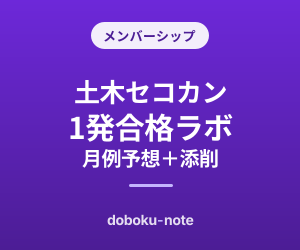
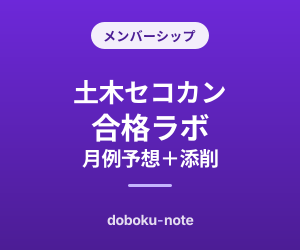
chore(note): メンバーシップ名を「土木セコカン合格ラボ」へ改名（1発を外す）
土木セコカン 1発合格ラボ → 土木セコカン合格ラボ。SKUタイトル/サイドバーバナー
（再生成）/戦略docs/メンバーシップ説明文/note記事CTA/エージェント/台帳を横断更新
（18ファイル26箇所・_archiveは歴史記録として除外）。type-check緑。

note実機のメンバーシップ本体名の変更は別対応（管理画面・未ローンチのため低リスク）。
既存のbare-url違反(改名無関係)のためSKIP_NOTE_UTM=1でバーンダウン回避。

diff --git a/src/lib/note-magazines.ts b/src/lib/note-magazines.ts
@@ -502,7 +502,7 @@ const MAGAZINES_RAW = {
     badge: 'note 限定',
   },
 
-  // ----- 1級・2級土木 メンバーシップ「土木セコカン 1発合格ラボ」(2026-06-23 配線) -----
+  // ----- 1級・2級土木 メンバーシップ「土木セコカン合格ラボ」(2026-06-23 配線) -----
   // 原稿配置: docs/note/1級・2級土木/メンバーシップ/（予想問題マガジン・学科記述予想・添削事例）
   // 非重複二刀流の会員側（フロー＝予想問題＋個別＝経験記述添削）。過去問・完成答案は会員に入れない
   // （買い切りマガジンの領分＝非重複の一線。noteコンテンツ計画.md §2.3 / Red Line #10）。
@@ -513,10 +513,10 @@ const MAGAZINES_RAW = {
     id: 'civil-membership-lab',
     published: false,
     noteUrl: '',
-    title: '土木セコカン 1発合格ラボ｜月例予想＋経験記述添削メンバーシップ',
+    title: '土木セコカン合格ラボ｜月例予想＋経験記述添削メンバーシップ',
     description:
       '1級・2級土木施工管理技士の合格伴走メンバーシップ。月例の予想問題（学科記述・経験記述のテーマ予想）で手を動かし、受験シーズンは施工経験記述をマンツーマン添削（NG→OK赤入れ＋採点者視点）で合格水準まで引き上げます。通年プラン（月例予想配信）と添削つきプラン（受験シーズン・定員制）の2プラン。最短ルートで一発合格を目指す人向けの伴走ラボです。過去問の完成答案は買い切りマガジンで別途販売しています。※本会員は合格を保証するものではありません。',
-    shortTitle: '土木セコカン 1発合格ラボ（会員）',
+    shortTitle: '土木セコカン合格ラボ（会員）',
     shortDescription:
       '月例の予想問題＋経験記述マンツーマン添削で合格まで伴走。通年／添削つきの2プラン。',
     imageUrl: '/images/magazines/civil-membership-lab-cover.webp',

diff --git a/docs/reference/agents-registry.md b/docs/reference/agents-registry.md
@@ -119,7 +119,7 @@ title: サブエージェント詳細レジストリ
 | `doc-curator`                  | doc の**ライフサイクル**（肥大化・完了・重複）を監査し候補 doc を `KEEP/TRIM/ARCHIVE/DELETE/CONSOLIDATE + 根拠引用 + confidence + 後追い` で分類。**親が渡した外部実体の検証済みシグナル（PR merged・published:true・ファイル実在・参照の有無）に基づき判定し、doc の自己申告で done と決めない**。検出専用＝退避/削除/参照更新/memory 同期はしない。Bash 不可。`doc-sync-auditor`（コード diff 起点の prose 陳腐化）とは守備範囲が直交 | Evaluator    | sonnet  | `.claude/skills/dev/doc-declutter/SKILL.md` 参照、機械 surfacer `scripts/check-doc-lifecycle.mjs` | ✅ 運用中（2026-06-17 起動） |
 | `sales-recorder`               | note 販売履歴テキストを正規化して sales-log.json に追記。productId 推定・重複チェック・月次集計を行う。購入者名は記録しない（プライバシー保護） | Generator    | sonnet  | `/record-sales` 連携、`docs/reference/sales-tracking.md` 参照 | ✅ 運用中（2026-06-17 起動） |
 | `note-operator`                | note.com への高レベル操作指示（価格変更・マガジン新設・記事収録など）を受け取り、既存スクリプト群を組み合わせて実行するオーケストレーター。dry-run 必須・account ゲート・変更後検証・SoT 更新を統括 | Orchestrator | sonnet  | 親が起動、`docs/reference/note-api-verification.md` 参照 | ✅ 運用中（2026-06-17 起動） |
-| `note-membership-operator`     | note メンバーシップ「土木セコカン 1発合格ラボ」（1級・2級土木）専用オーケストレーター。会員特典記事の配信（note-publish で公開→note-magazine-add-articles で特典マガジン収録＝会員へ自動配信）・記事/プラン設定編集（プラン会費/定員/説明の**保存**は note-membership-plan-edit＝非公開のまま可逆・dry-run既定／**「プランの公開」は不可逆ゆえ守備外＝運営者手動**）・公開後 SoT 反映（civil-membership-lab + もくじ URL）。収益アカウント安全弁（account ゲート/draft既定/dry-run）内蔵。ローカル実行限定。買い切り汎用の note-operator とは守備範囲が直交 | Orchestrator | sonnet  | 親が起動 / `/note-membership`、`docs/note/1級・2級土木/noteコンテンツ計画.md`・`メンバーシップ/README.md`・`note-api-verification.md` 参照 | ✅ 運用中（2026-06-23 起動） |
+| `note-membership-operator`     | note メンバーシップ「土木セコカン合格ラボ」（1級・2級土木）専用オーケストレーター。会員特典記事の配信（note-publish で公開→note-magazine-add-articles で特典マガジン収録＝会員へ自動配信）・記事/プラン設定編集（プラン会費/定員/説明の**保存**は note-membership-plan-edit＝非公開のまま可逆・dry-run既定／**「プランの公開」は不可逆ゆえ守備外＝運営者手動**）・公開後 SoT 反映（civil-membership-lab + もくじ URL）。収益アカウント安全弁（account ゲート/draft既定/dry-run）内蔵。ローカル実行限定。買い切り汎用の note-operator とは守備範囲が直交 | Orchestrator | sonnet  | 親が起動 / `/note-membership`、`docs/note/1級・2級土木/noteコンテンツ計画.md`・`メンバーシップ/README.md`・`note-api-verification.md` 参照 | ✅ 運用中（2026-06-23 起動） |
 | `sns-archive-auditor`          | `docs/sns` のバイナリ（reels wav/mp4 等）退避の前段監査。各パックを **OFFLOAD/ARCHIVE_KEEP/KEEP_LOCAL/BLOCK** に分類（**SoT＝slide-data.json/script/caption が無傷で再生成可能か**＋投稿済み/制作中で判定）。「迷ったら KEEP/BLOCK」でローカル削除の不可逆性を構造で防ぐ。audit-only・Bash 不可（親が dry-run/R2 検証/git 状態を渡す）。実行は `npm run upload-sns-r2`（`--purge-local` は R2 バイト一致検証後のみ削除） | Evaluator    | sonnet  | `upload-sns-r2` 連携、`docs/reference/sns-archive-policy.md` 参照 | ✅ 運用中（2026-06-18 起動） |
 | `past-exam-qa`                 | 過去問記事（primary/secondary・総監＋1級2級土木）の既存 MDX 品質を5軸監査（構造統一・正答正確性/全選択肢正誤検証・ExamPoint 折衷案準拠〔引っかけ1行＋items最大2〕・RelatedKeywords健全性・モバイル/文体）。content-qa（変換忠実性）/civil-exam-figure-auditor（図）/cem-qa（キーワード）と守備範囲が直交。audit-only・Bash不可（親が lint/validate/slug実在を渡す） | Evaluator | sonnet | 親が起動（過去問品質サイクル）、`past-exam-rewriter` と対 | ✅ 運用中（2026-06-18 起動） |
 | `past-exam-rewriter`           | `past-exam-qa` の指摘を過去問 MDX に外科的適用する校正 Generator（総監＋土木の primary/secondary）。ExamPoint 折衷案圧縮（lint 9-11 準拠）・ドリフト見出し「各選択肢の検証：」撤去・RelatedKeywords 接頭辞/slug 修正・正誤理由補完・文体統一。設問文/正答/KaTeX は保持、正答修正は QA が誤りと明示時のみ慎重に。Edit で外科編集（whole-file Write 禁止＝CRLF事故）。civil の図/二次解答補完/一次の大量壊れExamPoint復元は civil 専用 Generator（figure-extractor/secondary-exam-writer/exampoint-restorer）に委譲 | Generator | sonnet | 親が起動（過去問品質サイクル）、`past-exam-qa` と対 | ✅ 運用中（2026-06-18 起動） |

diff --git a/docs/note/1級・2級土木/noteコンテンツ計画.md b/docs/note/1級・2級土木/noteコンテンツ計画.md
@@ -1,7 +1,7 @@
 # note コンテンツ計画 — 1級・2級土木（横断）
 
 **作成日**: 2026-06-11 / **SSOT 統合**: 2026-06-11 / **メンバーシップ 2 層化**: 2026-06-12 / **非重複二刀流**: 2026-06-12 / **ライブラリ内包メンバーシップへ転換**: 2026-07-01（完成答案を会員ライブラリに内包・買い切り¥9,800パックはアンカー化・実収益は3ヶ月メンバーシップ）
-**位置づけ**: 1級・2級土木施工管理技士の note 戦略の**統合 SSOT**。1級・2級土木の note 有料商品は、**完成答案ライブラリ＋フロー（予想・添削・伴走）を内包するメンバーシップ「土木セコカン 1発合格ラボ」を旗艦**とし、**買い切りマガジン（完全攻略パック ¥9,800 等）はアンカー兼サブスク拒否層の受け皿として購入可能なまま残す**ハイブリッドで展開する。鍵となる洞察＝完成答案は1人あたり所有価値が薄く（104工種中1〜2本しか要らない）原価もほぼゼロのため、「所有バンドル」より「会員が自分の工種を探す検索ライブラリ」として価値が高い。無料集客記事クラスターは下表のサブ文書へ委譲する。競合分析（[09_note競合分析2026.md](../../project/01_戦略/09_note競合分析2026.md)）に基づく。
+**位置づけ**: 1級・2級土木施工管理技士の note 戦略の**統合 SSOT**。1級・2級土木の note 有料商品は、**完成答案ライブラリ＋フロー（予想・添削・伴走）を内包するメンバーシップ「土木セコカン合格ラボ」を旗艦**とし、**買い切りマガジン（完全攻略パック ¥9,800 等）はアンカー兼サブスク拒否層の受け皿として購入可能なまま残す**ハイブリッドで展開する。鍵となる洞察＝完成答案は1人あたり所有価値が薄く（104工種中1〜2本しか要らない）原価もほぼゼロのため、「所有バンドル」より「会員が自分の工種を探す検索ライブラリ」として価値が高い。無料集客記事クラスターは下表のサブ文書へ委譲する。競合分析（[09_note競合分析2026.md](../../project/01_戦略/09_note競合分析2026.md)）に基づく。
 
 > [!important] 1級・2級土木の note 有料商品 — 真実源は本書のみ
 > メンバーシップが旗艦（完成答案ライブラリ＋フロー）で、買い切りはアンカー兼サブスク拒否層の受け皿。設計・価格・ローンチはすべて本書が唯一の真実源。`docs/project/01_戦略/04_収益化戦略.md` v6/v8 の「PWA＋週1予想ドリップ メンバーシップ」は建設部門先行の cross-exam 概念で、その 1級・2級土木への適用分は本書へ吸収済み。両書で別商品を二重定義しない。
@@ -85,7 +85,7 @@
 
 ### 2.1 メンバーシップ（旗艦・フロー＋個別）
 
-**商品名**: 土木セコカン 1発合格ラボ（1級・2級共通）／よみ: どぼくせこかん いっぱつごうかくラボ
+**商品名**: 土木セコカン合格ラボ（1級・2級共通）／よみ: どぼくせこかん いっぱつごうかくラボ
 **キャッチコピー（願望形）**: 「最短一発合格を**目指す**、月例予想＋経験記述添削の伴走ラボ」
 1 メンバーシップ・2 プラン。**完成答案ライブラリ（104 本・全工種）を内包**し、フロー（予想・添削・伴走）で 3 ヶ月引き止める（§1.4）。プラン名・説明文は [メンバーシップ説明文.md](./メンバーシップ説明文.md)。
 
@@ -230,7 +230,7 @@
 
 買い切りは廃止しないため、移行（非公開化・購入者移管）は不要。会員を新設する作業のみ。
 
-1. メンバーシップ「土木セコカン 1発合格ラボ」を note で作成（2 プラン・免責明記・説明文は [メンバーシップ説明文.md](./メンバーシップ説明文.md)）
+1. メンバーシップ「土木セコカン合格ラボ」を note で作成（2 プラン・免責明記・説明文は [メンバーシップ説明文.md](./メンバーシップ説明文.md)）
 2. **予想問題マガジン・添削事例マガジンを新規作成**し会員専用特典に設定。**完成答案マガジンも会員特典に内包**（単品・¥9,800 パックの販売は継続）
 3. 無料リードマグネット公開 → 無料→買い切り／会員 の分岐導線を設置
 4. **【2026-06-23 完了】** `src/lib/note-magazines.ts` に会員商品エントリ `civil-membership-lab` を追加（買い切りエントリは維持＝両建て）。`published: false`／`noteUrl: ''` のプレースホルダで、note 作成後に運営者が `noteUrl` 埋め＋`published: true` へ flip するとサイトCTAが自動発火する

diff --git a/docs/project/01_戦略/04_収益化戦略.md b/docs/project/01_戦略/04_収益化戦略.md
@@ -56,7 +56,7 @@ v2（2026-04-04策定）からの主要変更点:
 v6 の「③来年メンバーシップ ¥1,000/月」を具体化する構想。**検証スコープは技術士建設部門（1次＋2次）に限定**して小さく回し、成立確認後に資格横断（PWA 共通エンジンの総監ほか）へ広げる。3 本柱で構成する。
 
 > [!important] 1級・2級土木は本節の対象外（非重複二刀流）
-> 1級・2級土木の note 有料商品は、**買い切りマガジン（過去問・完成答案）とメンバーシップ「土木セコカン 1発合格ラボ」（予想問題＋添削）の非重複二刀流として [docs/note/1級・2級土木/noteコンテンツ計画.md](../../note/1級・2級土木/noteコンテンツ計画.md) に確定済み**（2026-06-12）。過去問＝買い切り／予想・添削＝会員で内容が重複しないため価格逆転が起きない。本節の「週1予想ドリップ＋PWA」概念のうち 1級・2級土木分は同書の会員ベース層に吸収した。本節は建設部門先行の cross-exam 概念を扱い、1級・2級土木向けの独立メンバーシップをここで再定義しない。**v6「買い切りの受け皿も残す」原則は 1級・2級土木でも維持**（過去問＝買い切り・同書 §2.2/§2.3）。PWA 演習基盤（資格別 PWA × 共通エンジン）自体は総監・1級・2級土木を横断する（柱2）。
+> 1級・2級土木の note 有料商品は、**買い切りマガジン（過去問・完成答案）とメンバーシップ「土木セコカン合格ラボ」（予想問題＋添削）の非重複二刀流として [docs/note/1級・2級土木/noteコンテンツ計画.md](../../note/1級・2級土木/noteコンテンツ計画.md) に確定済み**（2026-06-12）。過去問＝買い切り／予想・添削＝会員で内容が重複しないため価格逆転が起きない。本節の「週1予想ドリップ＋PWA」概念のうち 1級・2級土木分は同書の会員ベース層に吸収した。本節は建設部門先行の cross-exam 概念を扱い、1級・2級土木向けの独立メンバーシップをここで再定義しない。**v6「買い切りの受け皿も残す」原則は 1級・2級土木でも維持**（過去問＝買い切り・同書 §2.2/§2.3）。PWA 演習基盤（資格別 PWA × 共通エンジン）自体は総監・1級・2級土木を横断する（柱2）。
 
 - **柱1：週1回 予想問題ドリップ（drip エンジンの正体）** — v6 原則「小出し＝エバーグリーンなモート読み物」を**週次配信**として具体化。1次（基礎・適性・建設部門専門）＋ 2次必須Ⅰの予想問題を毎週 1 本。月4本で月額が構造的に正当化され、年間約50本がストック資産化する。既存の予想問題生成スキル資産を AI 生成＋運営者レビューの週次パイプラインに乗せる（1対多の build-once＝スケールする。添削の人的労働とは別物）。
 - **柱2：過去問 PWA アクセス（一括開放）** — v6 原則「一括開放＝過去問 PWA」を会員特典に内包。会員は PWA を包含 or 会員クーポンで開放。通年利用される演習ツールが継続課金のフックになる。

diff --git a/docs/note/1級・2級土木/メンバーシップ/README.md b/docs/note/1級・2級土木/メンバーシップ/README.md
@@ -1,4 +1,4 @@
-# メンバーシップ「土木セコカン 1発合格ラボ」会員専用コンテンツ（ドラフト）
+# メンバーシップ「土木セコカン合格ラボ」会員専用コンテンツ（ドラフト）
 
 > 会員（フロー＋個別）の中核コンテンツのドラフト置き場。
 > 真実源（商品設計・Red Line・ローンチ判断）: [noteコンテンツ計画.md](../noteコンテンツ計画.md)
@@ -25,7 +25,7 @@
 
 - `src/lib/note-magazines.ts` に会員エントリ `civil-membership-lab`（1メンバーシップ・2プラン＝単一URL、`badge: メンバーシップ`、`price: 月額 ¥1,480〜（2プラン）`）を追加。買い切りエントリは維持＝両建て。**`published: false`／`noteUrl: ''` のプレースホルダ**で、`getMagazine()` が未公開を防御的に null 返しするため**現状サイトには表示されない**。
 - `src/lib/magazine-placement.ts` で 1級・2級土木の **経験記述系（secondary-r0X／experience-writing guide・examples）・guide・カテゴリ入口**に会員CTAを配置（買い切りCTAは維持し、即金アンカーの後＝LTV枠として末尾に追加）。非重複の一線（過去問・完成答案は会員に入れない）は維持。
-- **運営者の残作業（flip でサイトに自動表示）**: ①note でメンバーシップ「土木セコカン 1発合格ラボ」を 2 プランで作成し URL 取得 → ②`civil-membership-lab` の `noteUrl` を埋め `published: true` に変更 → ③カバー画像 `public/images/magazines/civil-membership-lab-cover.webp` を作成 → ④commit・デプロイ。これで該当 slug ページに会員CTAが自動表示される。
+- **運営者の残作業（flip でサイトに自動表示）**: ①note でメンバーシップ「土木セコカン合格ラボ」を 2 プランで作成し URL 取得 → ②`civil-membership-lab` の `noteUrl` を埋め `published: true` に変更 → ③カバー画像 `public/images/magazines/civil-membership-lab-cover.webp` を作成 → ④commit・デプロイ。これで該当 slug ページに会員CTAが自動表示される。
 - 別系統の残作業（手動）: 添削実測ゲート（計画 §5.1）／note 上の特典マガジン設定／note公開済みの「土木もくじ」への会員セクション追記（再公開が必要）。
 
 ## 配信カレンダー（試験日まで全話仕込み済み・週1ドリップ）

diff --git a/docs/note/1級・2級土木/土木もくじ/article.md b/docs/note/1級・2級土木/土木もくじ/article.md
@@ -74,7 +74,7 @@ cover:
 
 ## 伴走する（会員制メンバーシップ）
 
-過去問の完成答案は上の買い切りマガジンで永久に手元に置けます。これに対し、**毎月届く予想問題**（学科記述＋経験記述のテーマ予想）と、**受験シーズン限定のマンツーマン添削**で合格まで伴走するのが会員制「**土木セコカン 1発合格ラボ**」です。予想問題＋添削が中身で、買い切り（過去問の完成答案）とは役割が異なります。最短ルートで一発合格を目指す人向けです。
+過去問の完成答案は上の買い切りマガジンで永久に手元に置けます。これに対し、**毎月届く予想問題**（学科記述＋経験記述のテーマ予想）と、**受験シーズン限定のマンツーマン添削**で合格まで伴走するのが会員制「**土木セコカン合格ラボ**」です。予想問題＋添削が中身で、買い切り（過去問の完成答案）とは役割が異なります。最短ルートで一発合格を目指す人向けです。
 
 <!-- 運営者TODO: note でメンバーシップ作成後、この下行に bare URL を記入して再公開する。あわせて src/lib/note-magazines.ts の civil-membership-lab を noteUrl 記入＋published:true に。 -->
 
@@ -88,7 +88,7 @@ cover:
 - **経験記述の完成答案がほしい** → [1級](https://note.com/dobokunote/m/m150c9db08902)／[2級](https://note.com/dobokunote/m/m1881a9578027) 完成答案集
 - **過去問の年度別模範答案がほしい** → [1級](https://note.com/dobokunote/m/m3a578194a0a9)／[2級](https://note.com/dobokunote/m/md3aa0f9a37d7) 過去問模範答案集
 - **複数テーマに備えたい**（1級） → [2テーマ組合せ大全](https://note.com/dobokunote/m/m74cfd7c695d6)
-- **予想問題と添削で合格まで伴走してほしい** → 会員制「土木セコカン 1発合格ラボ」（上の「伴走する（会員制メンバーシップ）」参照）
+- **予想問題と添削で合格まで伴走してほしい** → 会員制「土木セコカン合格ラボ」（上の「伴走する（会員制メンバーシップ）」参照）
 
 ---
 

diff --git a/docs/note/README.md b/docs/note/README.md
@@ -70,7 +70,7 @@ docs/note/
 
 ### 1級・2級土木（`1級・2級土木/`・`1級土木/`・`2級土木/`）
 
-- **横断戦略 SSOT**: `1級・2級土木/noteコンテンツ計画.md` — **買い切りマガジン（過去問・完成答案）＋メンバーシップ「土木セコカン 1発合格ラボ」（予想問題＋添削）の非重複二刀流**。会員＝通年プラン ¥1,480/月（月例予想配信）＋ 添削つきプラン ¥2,980/月・定員 10・シーズン制。過去問は買い切り（会員に入れない）。設計・級別サブ文書の索引
+- **横断戦略 SSOT**: `1級・2級土木/noteコンテンツ計画.md` — **買い切りマガジン（過去問・完成答案）＋メンバーシップ「土木セコカン合格ラボ」（予想問題＋添削）の非重複二刀流**。会員＝通年プラン ¥1,480/月（月例予想配信）＋ 添削つきプラン ¥2,980/月・定員 10・シーズン制。過去問は買い切り（会員に入れない）。設計・級別サブ文書の索引
 - **買い切りマガジン（販売継続・過去問/完成答案）**: 1級 完成答案集・2テーマ組合せ大全・過去問模範答案集／2級 完成答案集ほか（**会員には入れない＝非重複**。制作詳細は各級プラン文書、二刀流設計は計画 §2.2/§2.3）
 - **無料リードマグネット**: 模範解答サンプル＋落ちる答案診断（コールド客のトラスト導線・計画 §3.3）
 - **無料集客**: 級別クラスター（1級 A層 5 本 / 2級 A層 5 本＋B層 5 本）

diff --git a/docs/project/01_戦略/README.md b/docs/project/01_戦略/README.md
@@ -48,14 +48,14 @@
 
 - **横断戦略**: 01・02・03 / 04 / 09
 - **資格別実行 SSOT**:
-  - 買い切り＋会員 非重複二刀流「土木セコカン 1発合格ラボ」（過去問＝買い切り／予想・添削＝会員）: [1級・2級土木/noteコンテンツ計画.md](../../note/1級・2級土木/noteコンテンツ計画.md)
+  - 買い切り＋会員 非重複二刀流「土木セコカン合格ラボ」（過去問＝買い切り／予想・添削＝会員）: [1級・2級土木/noteコンテンツ計画.md](../../note/1級・2級土木/noteコンテンツ計画.md)
   - 買い切りマガジン（過去問・完成答案）の制作: [1級土木/1級土木施工経験記述プラン.md](../../note/1級・2級土木/1級土木/1級土木施工経験記述プラン.md)
 
 ### 2級土木（Phase 0 前倒し）
 
 - **横断戦略**: 04 / 06 / 09
 - **資格別実行 SSOT**:
-  - 買い切り＋会員 非重複二刀流「土木セコカン 1発合格ラボ」（1 級と統合）: [1級・2級土木/noteコンテンツ計画.md](../../note/1級・2級土木/noteコンテンツ計画.md)
+  - 買い切り＋会員 非重複二刀流「土木セコカン合格ラボ」（1 級と統合）: [1級・2級土木/noteコンテンツ計画.md](../../note/1級・2級土木/noteコンテンツ計画.md)
   - 買い切りマガジン（過去問・完成答案）の制作: [2級土木/2級土木施工経験記述プラン.md](../../note/1級・2級土木/2級土木/2級土木施工経験記述プラン.md)
 
 ### 技術士建設部門（Phase 2）

diff --git a/docs/note/1級・2級土木/経験記述-独学添削の限界-無料/article.md b/docs/note/1級・2級土木/経験記述-独学添削の限界-無料/article.md
@@ -65,7 +65,7 @@ https://note.com/dobokunote/m/m8290970a7f05
 
 第3層は、添削で一気に越えられます。経験記述は「自分の解答が合っているか一人で判定できない」唯一の領域で、だからこそ添削と相性が良い。
 
-会員制「**土木セコカン 1発合格ラボ**」では、受験シーズン限定で**あなたの施工経験記述を毎週1本マンツーマン添削**します。NG→OK の赤入れと採点者視点で、第3層のズレを直します。毎月届く予想問題のお題で手を動かし、その答案を添削に出す——この往復が合格答案をつくります。
+会員制「**土木セコカン合格ラボ**」では、受験シーズン限定で**あなたの施工経験記述を毎週1本マンツーマン添削**します。NG→OK の赤入れと採点者視点で、第3層のズレを直します。毎月届く予想問題のお題で手を動かし、その答案を添削に出す——この往復が合格答案をつくります。
 
 > 添削は**本人の答案への赤入れまで**です（代筆はしません。代筆答案は失格につながります）。あくまで、あなた自身の経験を合格水準の文章に磨く伴走です。
 

diff --git a/docs/note/1級・2級土木/経験記述-落ちる答案診断-無料/article.md b/docs/note/1級・2級土木/経験記述-落ちる答案診断-無料/article.md
@@ -105,7 +105,7 @@ https://note.com/dobokunote/m/m8290970a7f05
 
 **過去問の模範解答が欲しい**人は、買い切りマガジンへ。完成答案集（全管理項目・複数工種のフル完成答案）と、過去問模範答案集（R03〜R07 の年度別模範答案）を用意しています。一度買えば永久に読めます。
 
-**最短一発合格まで伴走してほしい**人は、会員制「**土木セコカン 1発合格ラボ**」へ。毎月届く予想問題（学科記述＋経験記述のお題）と、受験シーズン限定のマンツーマン添削（定員制）で、あなたの答案を仕上げます。会員の1か月めは解約自由なので、気軽にお試しできます。
+**最短一発合格まで伴走してほしい**人は、会員制「**土木セコカン合格ラボ**」へ。毎月届く予想問題（学科記述＋経験記述のお題）と、受験シーズン限定のマンツーマン添削（定員制）で、あなたの答案を仕上げます。会員の1か月めは解約自由なので、気軽にお試しできます。
 
 各商品の詳細・お申し込みは、プロフィールまたはマガジン一覧からどうぞ。
 

diff --git a/docs/note/1級・2級土木/経験記述-予想問題で書く練習-無料/article.md b/docs/note/1級・2級土木/経験記述-予想問題で書く練習-無料/article.md
@@ -56,7 +56,7 @@ https://note.com/dobokunote/m/m8290970a7f05
 
 このサイクルの弱点は、**毎週の新しいお題を自分で用意し続けるのが大変**なことと、**書いた答案を誰もチェックしてくれない**ことです。
 
-会員制「**土木セコカン 1発合格ラボ**」は、この2つを引き受けます。
+会員制「**土木セコカン合格ラボ**」は、この2つを引き受けます。
 
 - **毎月届く予想問題** — 経験記述の週次お題（テーマ予想・着眼点つき）と学科記述（問題2〜9）の予想を定期配信。お題を考える手間がなくなり、サイクルが続きます。
 - **マンツーマン添削**（シーズン限定・定員制） — 練習で書いた答案を毎週1本、採点者視点で赤入れ。書きっぱなしを防ぎます。
